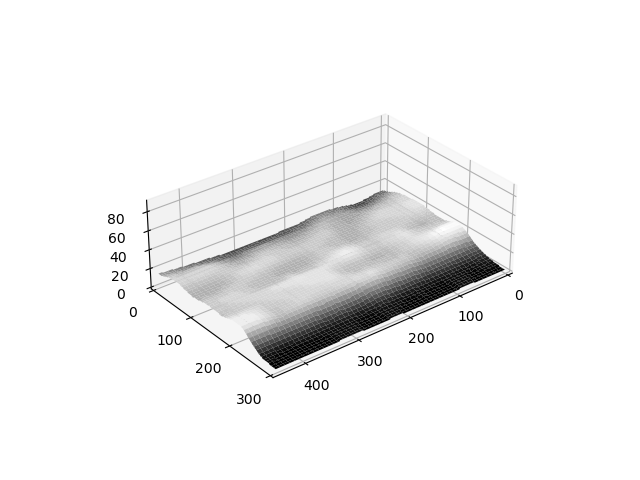
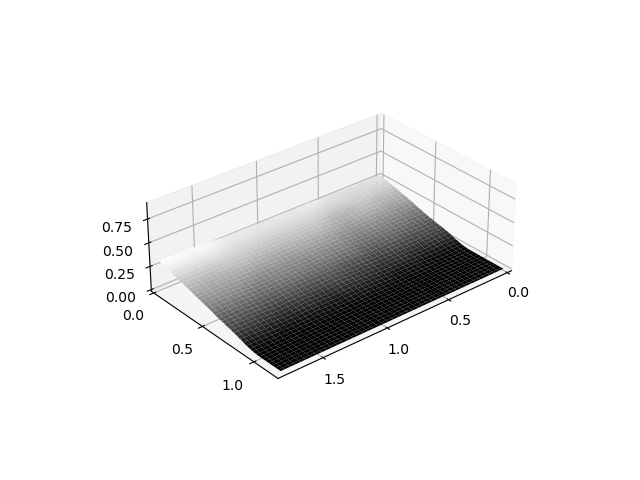
Updated 30

diff --git a/slope_test.py b/slope_test.py
@@ -94,21 +94,21 @@ def correct_image(blur, slope_range):
     height, width = blur[slope_range[0]:slope_range[1], :].shape  # y, x
     blur = blur[slope_range[0]:slope_range[1], :]
 
-    # 10 height
-    for x in range(height):
-        for y in range(width):
-            blur[x][y] = blur[x][y] - int(35 - x * 35/576)
-            if (blur[x][y] > 150):
-                blur[x][y] = 0
-            print(blur[x][y])
-            
-    # # 20, 30 height
+    # # 10 height
     # for x in range(height):
     #     for y in range(width):
-    #         blur[x][y] = blur[x][y] - int(25 - y * 25/576)
+    #         blur[x][y] = blur[x][y] - int(25 - x * 25/576)
     #         if (blur[x][y] > 150):
     #             blur[x][y] = 0
     #         print(blur[x][y])
+            
+    # 20, 30 height
+    for x in range(height):
+        for y in range(width):
+            blur[x][y] = blur[x][y] - int(25 - y * 25/576)
+            if (blur[x][y] > 150):
+                blur[x][y] = 0
+            print(blur[x][y])
 
     return blur
 
@@ -138,15 +138,16 @@ def estimate_slope(z):
 
 def main():
 
-    vor_image_gray = cv2.imread('images_10/voro_lidar_img_2023_09_16_06_41_42_01800.jpg', 0).astype(np.uint8)   # 10 deg
-    slope_range = (50, 230)   # 10 deg
+    # vor_image_gray = cv2.imread('images_10/voro_lidar_img_2023_09_16_06_41_42_01800.jpg', 0).astype(np.uint8)   # 10 deg
+    # slope_range = (50, 230)   # 10 deg
     # vor_image_gray = cv2.imread('images_20/voro_lidar_img_2023_09_16_06_54_29_02000.jpg', 0).astype(np.uint8)   # 20 deg
     # slope_range = (0, 200)   # 20 deg
-    # vor_image_gray = cv2.imread('images_30/voro_lidar_img_2023_09_16_07_04_35_02300.jpg', 0).astype(np.uint8)   # 30 deg
-    # slope_range = (50, 200)   # 30 deg
+    vor_image_gray = cv2.imread('images_30/voro_lidar_img_2023_09_16_07_04_35_02300.jpg', 0).astype(np.uint8)   # 30 deg
+    slope_range = (50, 200)   # 30 deg
     # vor_image_gray = vor_image_gray[0:400][:]
     # vor_image_gray = vor_image_gray[0:400, 0:400]
     vor_image_gray = vor_image_gray[0:300, 0:450]
+    # vor_image_gray = vor_image_gray[0:120, 0:180]
 
     # img_h, img_w = vor_image_gray.shape
     # for y in range(img_h):
@@ -155,7 +156,7 @@ def main():
 
     blur = cv2.GaussianBlur(vor_image_gray, (45,45), 0)
     z = correct_image(blur, slope_range)
-    z = estimate_slope(z)
+    # z = estimate_slope(z)
 
     kernel_size = 45
     kernel = np.ones((kernel_size, kernel_size), np.float32) / (kernel_size * kernel_size)
@@ -164,7 +165,7 @@ def main():
     # z = cv2.resize(z, dsize=(576,384), interpolation=cv2.INTER_AREA)
     # scale = 1 / 19.2
     # z = cv2.resize(z * scale, dsize=(576 * scale, 384 * scale), interpolation=cv2.INTER_AREA)
-    # z = cv2.resize(z * scale, dsize=(30, 20), interpolation=cv2.INTER_AREA)
+    z = cv2.resize(z, dsize=(180, 120), interpolation=cv2.INTER_AREA)
 
 
     fig = plt.figure()
@@ -174,29 +175,34 @@ def main():
     # ax.set_aspect("equal")
 
     img_h, img_w = z.shape
-    x = np.arange(0, img_w, 1)
-    y = np.arange(0, img_h, 1)
+    x = np.arange(0, img_w, 1) / 100
+    y = np.arange(0, img_h, 1) / 100
     x, y = np.meshgrid(x, y)
 
     # np.savetxt('slope.txt', blur[1][y], fmt='%d', delimiter='/t')
     # z = cv2.GaussianBlur(vor_image_gray,(45,45),0)
 
-    ax.plot_surface(x, y, z, cmap='gray')
+    ax.plot_surface(x, y, z / 2.5 / 100, cmap='gray')  # height
+    # ax.plot_surface(x, y, z, cmap='gray')  # slope
     # ax.set_xlabel('X Label')
     # ax.set_ylabel('Y Label')
-    # ax.set_zlabel('Slope') 
+    # ax.set_zlabel('Slope')
 
 
-    plt.rc('font', size=15)
-    ax.set_xlim(0, img_w)
-    ax.set_ylim(0, img_h)
-    ax.set_zlim(0, 90)
+    plt.rc('font', size=20)
+    ax.set_xlim(0, img_w / 100)
+    ax.set_ylim(0, img_h / 100)
+    ax.set_zlim(0, 90 / 100)  # height
+    # ax.set_zlim(0, 90)  # slope
     plt.grid(True, linestyle='--', alpha=0.7)
+    
+    # plt.tick_params(axis='both', labelsize=20)
+    
     # ax.set_zlim(0, 90 * scale)
     # ax.set_zlim(0, np.max(z))
     # ax.set_zlim(0, 150)   # 10, 20, 30 height
 
-    
+    ax.view_init(elev=30, azim=50)
     plt.show()
 
     cv2.waitKey(0)
